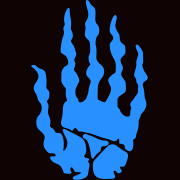
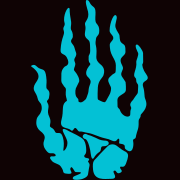
深色模式互動色從英傑藍 #2991FF 改為希卡青 #03C1D5
使用者反映原藍偏暗；#03C1D5 對深棕底 9.2:1（原 6.4:1），
而且更貼近遊戲裡希卡科技實際的青色光。淺色模式維持 #1668C0 不動。

跟著換的深色硬編碼：type-link 底線漸層、obj 頁 hero 強調、
SheikahField 字符場、入口頁深色 accent／focus／命中／粒子
（oklch 色相 255→205），favicon 與 apple-touch-icon 同步改青手掌。

Changed region(s): [[0.1667, 0.0, 0.8333, 1.0]]

diff --git a/src/styles/global.css b/src/styles/global.css
@@ -50,8 +50,8 @@
   --ink-2: #efe9d2;
   --text: #cfc6b3;
   --muted: #978d7c;
-  --brand: #2991ff;
-  --accent: #2991ff;
+  --brand: #03c1d5;
+  --accent: #03c1d5;
   --gold: #dcbf7c;
   --gold-ink: #241612;
   --on-accent: #0f0304;
